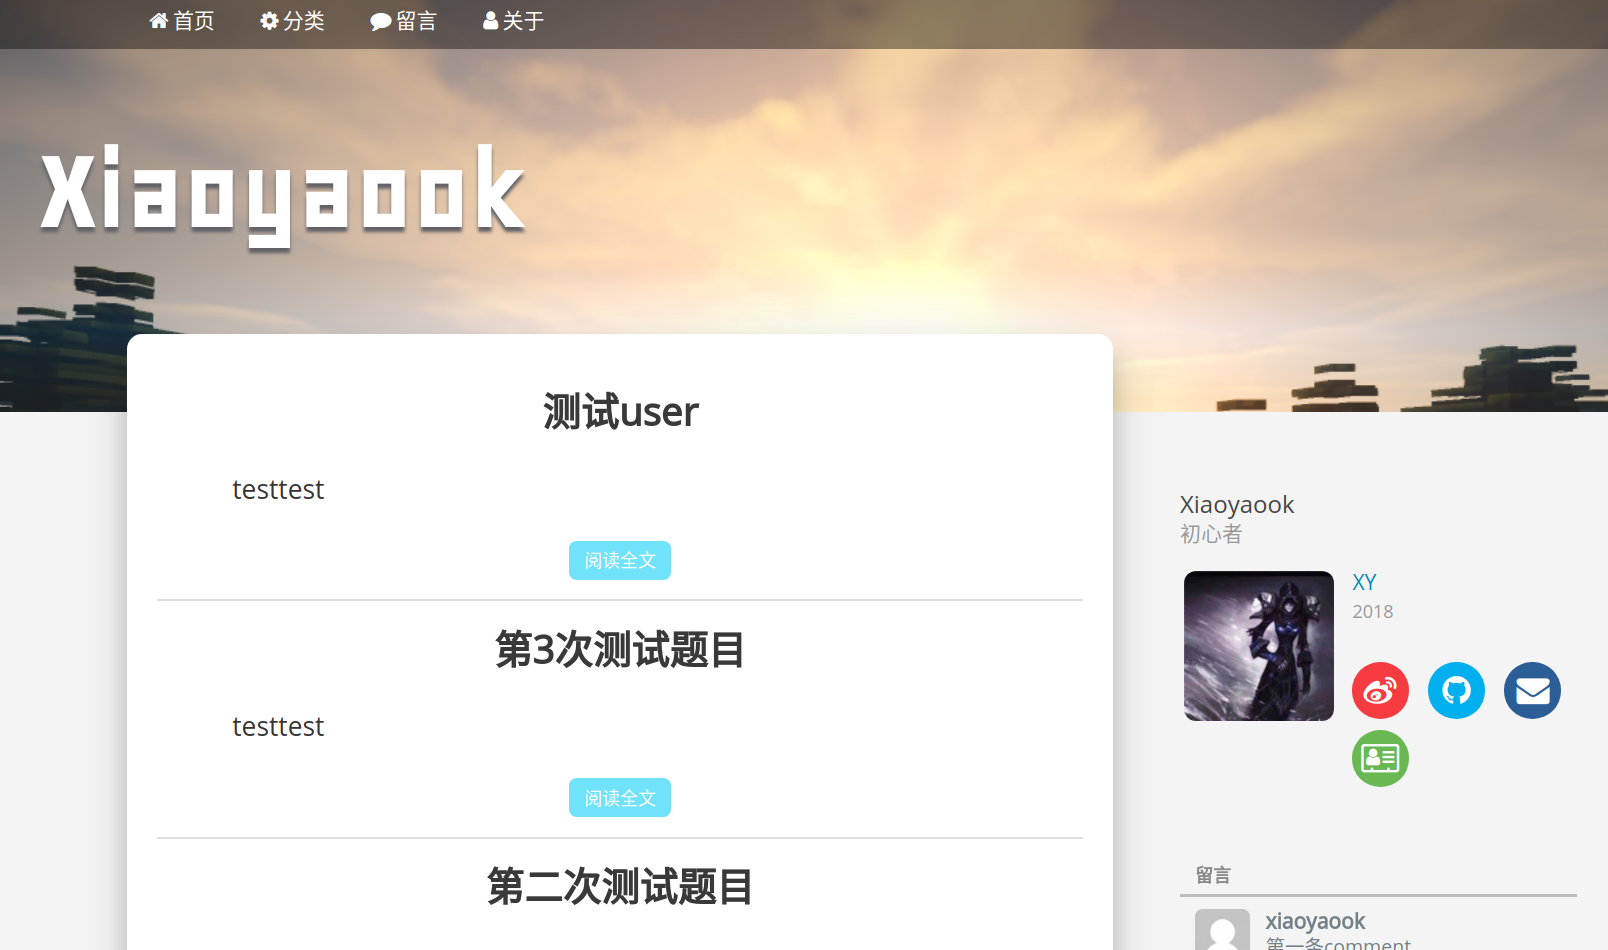
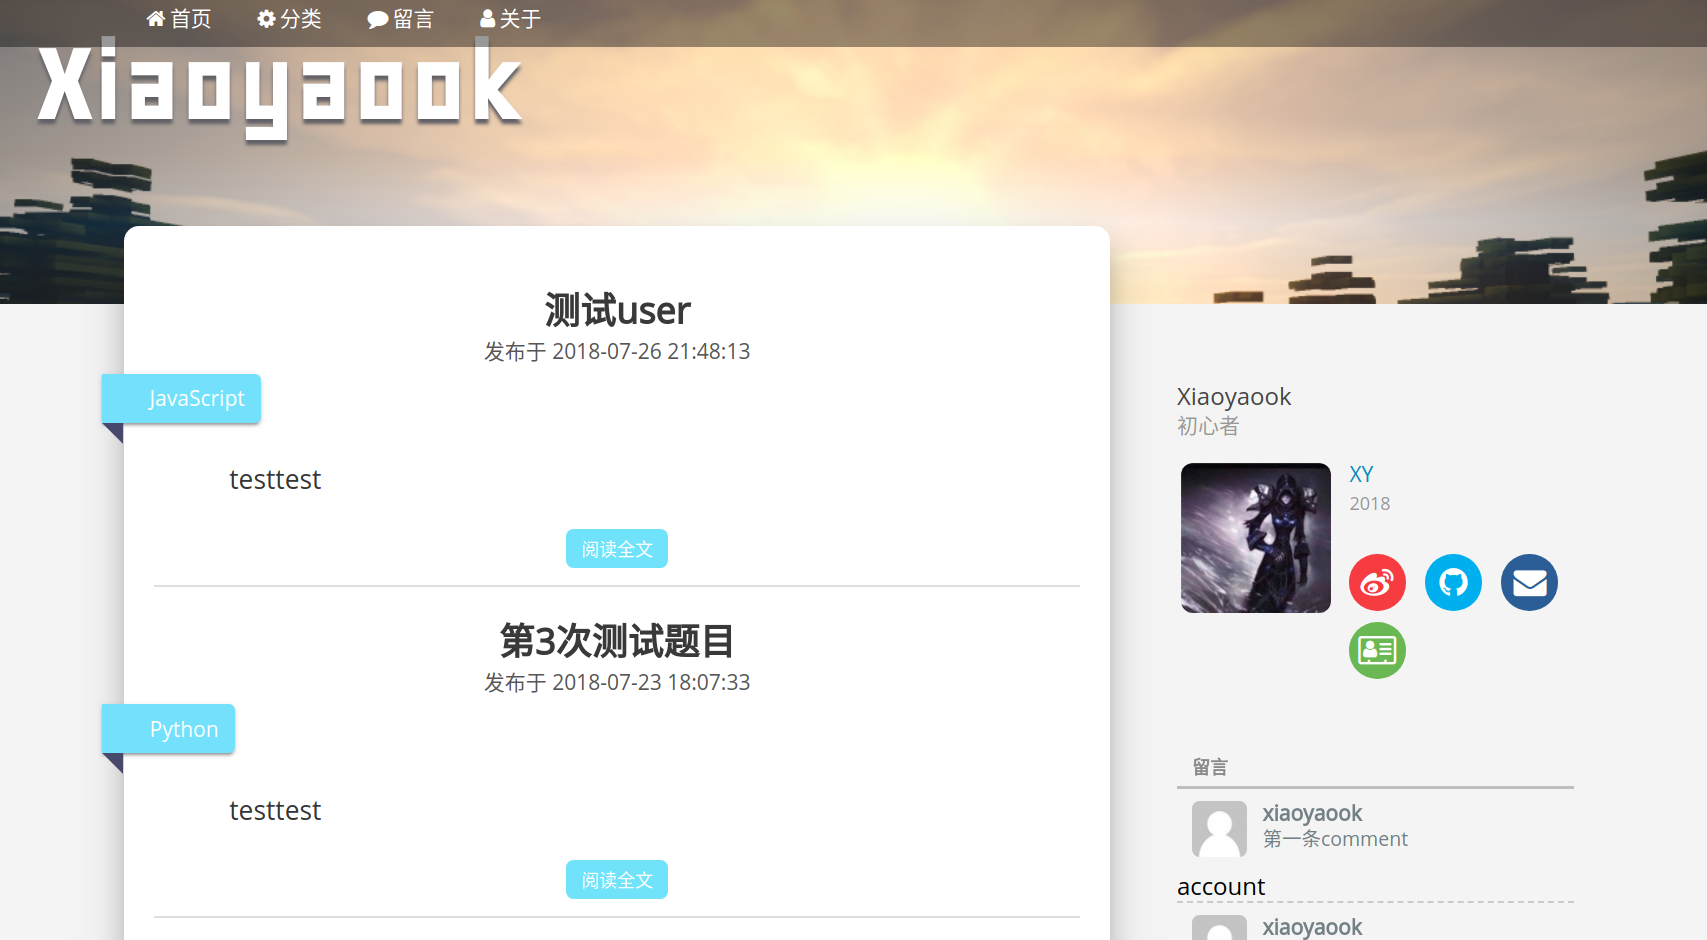
文章列表美化，后台管理

diff --git a/blogmaster/src/admin/adminArticleList.vue b/blogmaster/src/admin/adminArticleList.vue
@@ -7,28 +7,28 @@
     :default-sort = "{prop: 'date', order: 'descending'}"
     >
     <el-table-column
-      prop="articleId"
+      prop="id"
       label="编号"
       sortable
-      width="150">
+      width="60">
     </el-table-column>
     <el-table-column
       prop="title"
       label="标题"
-      width="90">
+      width="120">
     </el-table-column>
     <el-table-column
-      prop="describtion"
+      prop="summary"
       label="描述"
       width="150">
     </el-table-column>
     <el-table-column
-      prop="tag"
-      label="标签"
-      width="70">
+      prop="categoryName"
+      label="分类"
+      width="100">
     </el-table-column>
     <el-table-column
-      prop="createDate"
+      prop="createBy"
       label="发布时间"
       width="180">
     </el-table-column>
@@ -60,8 +60,8 @@
 export default {
   data () {
     return {
-      pageSize: 10,
-      page: 1,
+//      pageSize: 10,
+//      page: 1,
       // busy: true, //是否还有数据要加载
       tableData:[]
     }
@@ -85,32 +85,56 @@ export default {
 //          this.tableData = [];
 //        }
 //      })
+      this.$api.listAllArticle().then(res => {
+        console.log(res)
+        if (res.code === 0) {
+          this.tableData = res.data
+        }
+      }).catch(error => {
+        console.log(error)
+      })
     },
     handleDelete (index) {
-      let articleId = this.tableData[index].articleId;
+      let articleId = this.tableData[index].id;
       this.$confirm('将删除该文章, 是否继续?', '警告', {
 		    confirmButtonText: '确定',
 		    cancelButtonText: '取消',
 		    type: 'warning'
 		  }).then(()=>{
-        axios.post("/api/articleDelete", {
-          articleId:articleId
-        }).then((response)=>{
-          let res = response.data
-          if (res.status == '0') {
-            this.$message({
+//        axios.post("/api/articleDelete", {
+//          articleId:articleId
+//        }).then((response)=>{
+//          let res = response.data
+//          if (res.status == '0') {
+//            this.$message({
+//              type: 'success',
+//              message: '文章已删除'
+//            })
+//            this.init()
+//          } else {
+//            this.$message.error('未删除成功')
+//          }
+//        })
+          this.$api.deleteArticle({
+            id: articleId
+          }).then(res => {
+            console.log(res)
+            if (res.code === 0) {
+              this.$message({
               type: 'success',
               message: '文章已删除'
-            })
-            this.init()
-          } else {
-            this.$message.error('未删除成功')
-          }
-        })
+              })
+              this.init()
+            } else {
+              this.$message.error('未删除成功')
+            }
+          }).catch(error => {
+            console.log(error)
+          })
       })
     },
     handle (index) {
-      let articleId = this.tableData[index].articleId;
+      let articleId = this.tableData[index].id;
       this.$router.push({path :'/admin/adminChange', query: { articleId:articleId }})
     }
   }

diff --git a/blogmaster/src/admin/adminArticle.vue b/blogmaster/src/admin/adminArticle.vue
@@ -70,7 +70,6 @@
 </template>
 
 <script>
-import axios from 'axios'
 export default{
 		data(){
       return {
@@ -103,14 +102,32 @@ export default{
         } else if (!this.content) {
           this.$message.error('无内容')
         } else {
-          axios.post("/api/articleSub", {
+//          axios.post("/api/articleSub", {
+//            title: this.form.title,
+//            tag: this.form.tag,
+//            describtion: this.form.describtion,
+//            content: this.content
+//          }).then((response)=>{
+//            let res = response.data
+//            if (res.status == '0') {
+//              this.$message({
+//                type: 'success',
+//                message: '文章已发布'
+//              })
+//              this.visible2 = false
+//            } else {
+//              this.$message.error('未发布')
+//            }
+//          })
+          this.$api.addArticle({
             title: this.form.title,
-            tag: this.form.tag,
-            describtion: this.form.describtion,
-            content: this.content
-          }).then((response)=>{
-            let res = response.data
-            if (res.status == '0') {
+            summary: this.form.describtion,
+            content: this.content,
+            isTop: false,
+            pictureUrl: './while.jpg',
+            categoryId: 1
+          }).then(res => {
+            if (res.code === 0) {
               this.$message({
                 type: 'success',
                 message: '文章已发布'
@@ -119,6 +136,8 @@ export default{
             } else {
               this.$message.error('未发布')
             }
+          }).catch(error => {
+            console.log(error)
           })
         }
       },

diff --git a/blogmaster/src/http/interface.js b/blogmaster/src/http/interface.js
@@ -65,7 +65,7 @@ export const doLogin = data => {
 // 增加一篇文章
 export const addArticle = data => {
   return axios({
-    url: '/admin/article',
+    url: 'article',
     method: 'post',
     data
   })
@@ -73,14 +73,14 @@ export const addArticle = data => {
 // 删除一篇文章
 export const deleteArticle = params => {
   return axios({
-    url: '/admin/article/' + params,
+    url: 'article/' + params.id,
     method: 'delete'
   })
 }
 // 编辑/更新一篇文章
 export const updateArticle = data => {
   return axios({
-    url: '/admin/article/' + data.id,
+    url: 'article/' + data.id,
     method: 'put',
     data
   })

diff --git a/blogmaster/src/components/articleList.vue b/blogmaster/src/components/articleList.vue
@@ -2,10 +2,10 @@
 <div class="article-list">
   <article class="block post wysiwyg" v-for="item in list">
     <h2>{{item.title}}</h2>
-    <!--<p class="article-meta">发布于 {{item.createDate}}</p>-->
-    <!--<div class="ui ribbon label red">-->
-      <!--<a href="">{{item.tag}}</a>-->
-    <!--</div>-->
+    <p class="article-meta">发布于 {{item.createBy}}</p>
+    <div class="ui ribbon label red">
+      <a href="">{{item.categoryName}}</a>
+    </div>
     <div class="abstract" v-html="item.summary">
     </div>
     <p class="more"><router-link :to="{ path:'/article/' + item.id }">阅读全文</router-link></p>
